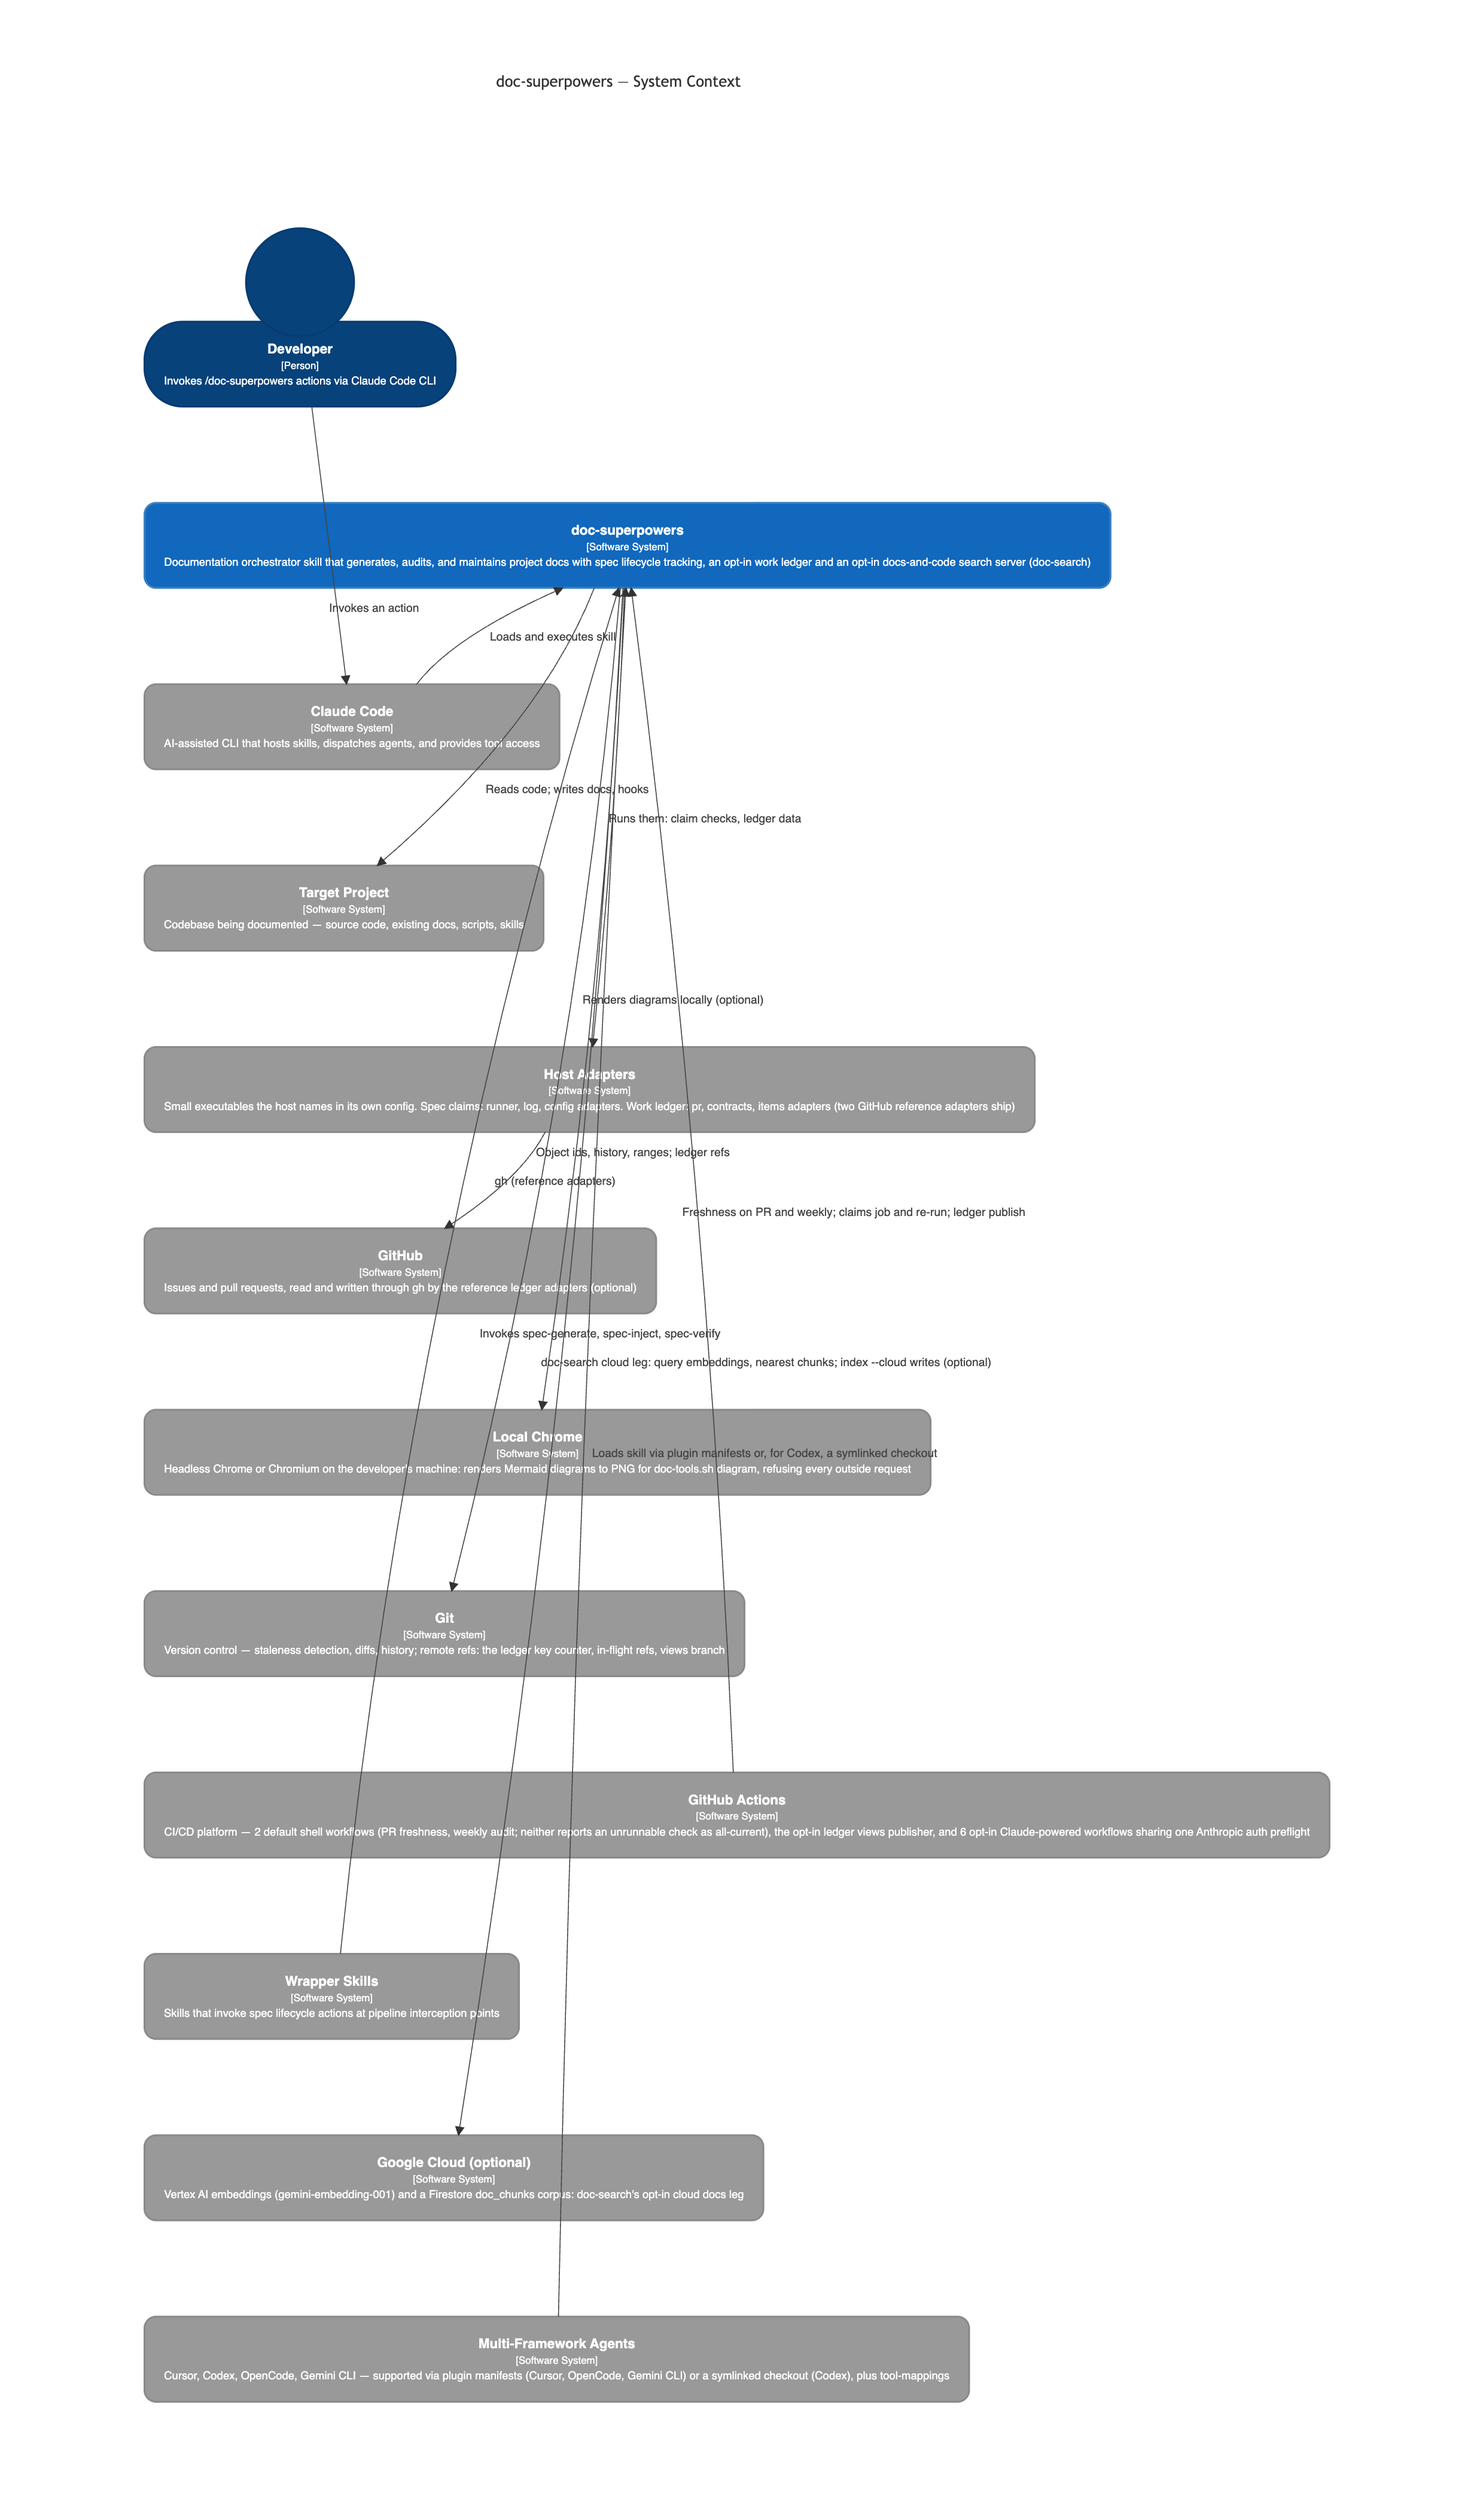
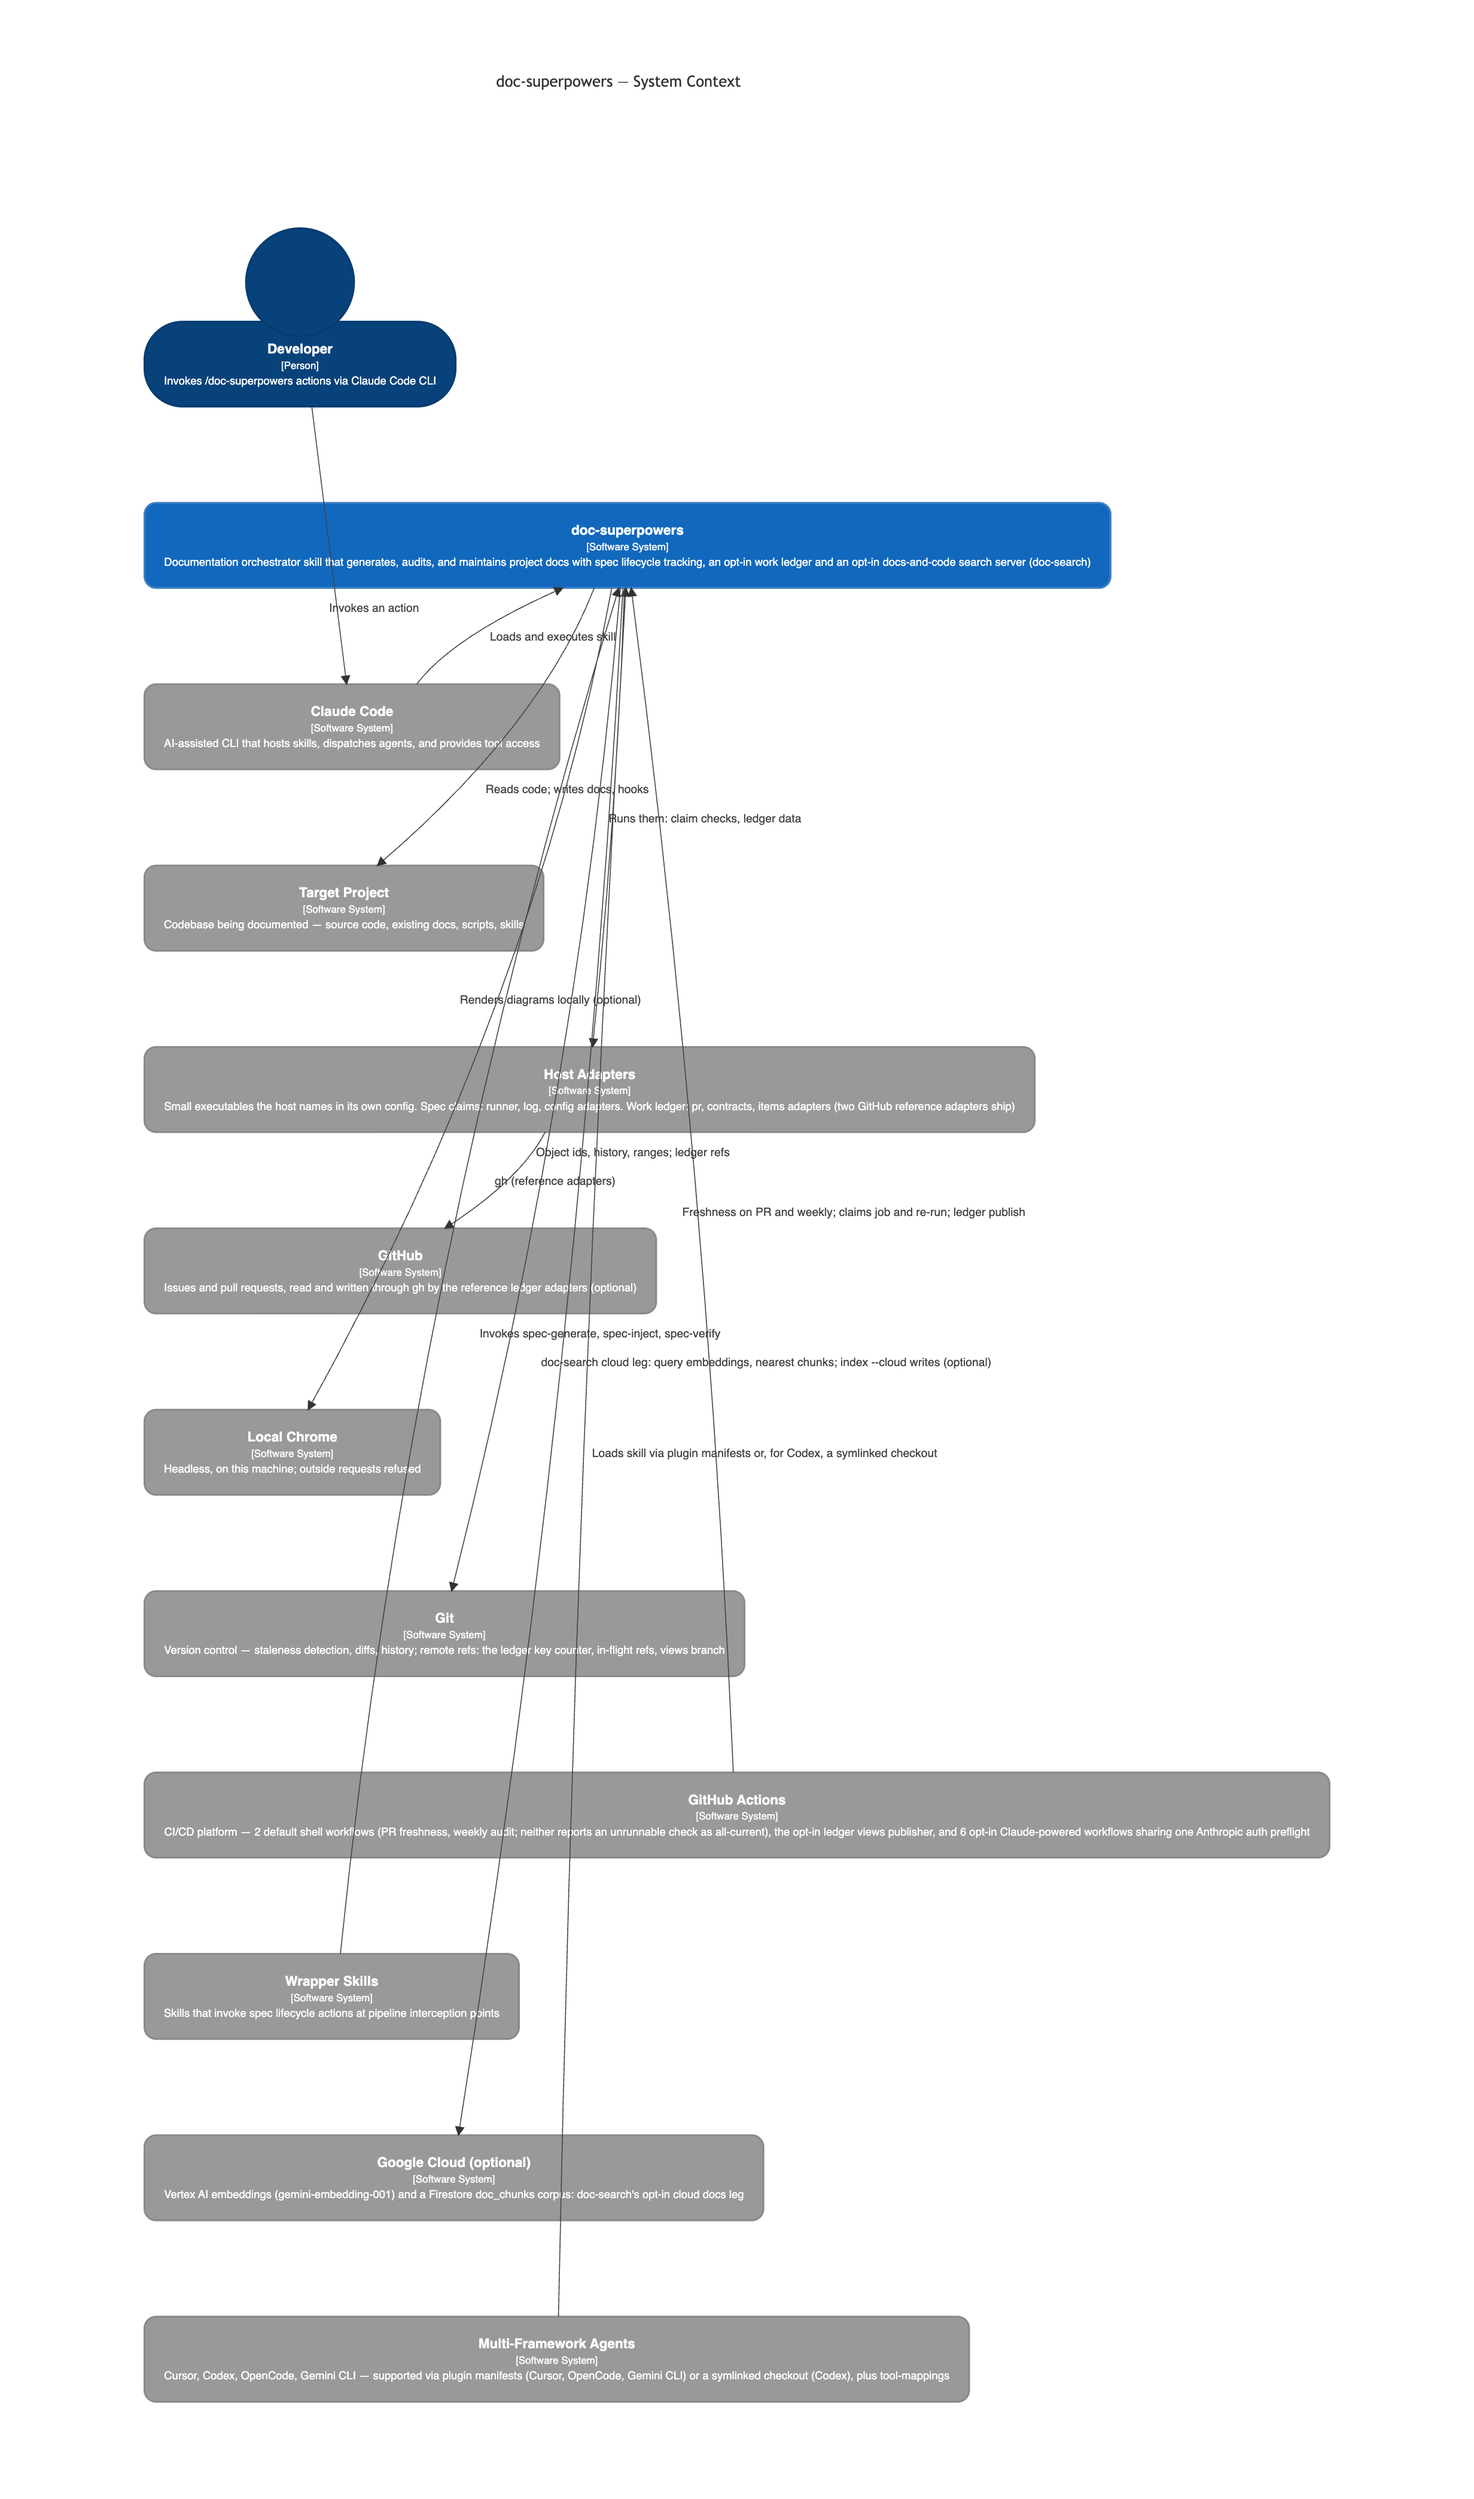
docs: the context diagram's Local Chrome box clears the edge label beside it
The longer description widened the box until the label "Loads skill via
plugin manifests or, for Codex, a symlinked checkout" sat on its title.
A shorter description keeps the box narrow, as the Mermaid MCP box was.

Changed region(s): [[0.2812, 0.5601, 0.6562, 0.6223], [0.1562, 0.5601, 0.2188, 0.5912]]

diff --git a/docs/architecture/system-overview.md b/docs/architecture/system-overview.md
@@ -27,7 +27,7 @@ C4Context
   System_Ext(project, "Target Project", "Codebase being documented — source code, existing docs, scripts, skills")
   System_Ext(adapters, "Host Adapters", "Small executables the host names in its own config. Spec claims: runner, log, config adapters. Work ledger: pr, contracts, items adapters (two GitHub reference adapters ship)")
   System_Ext(github, "GitHub", "Issues and pull requests, read and written through gh by the reference ledger adapters (optional)")
-  System_Ext(chrome, "Local Chrome", "Headless Chrome or Chromium on the developer's machine: renders Mermaid diagrams to PNG for doc-tools.sh diagram, refusing every outside request")
+  System_Ext(chrome, "Local Chrome", "Headless, on this machine; outside requests refused")
   System_Ext(git, "Git", "Version control — staleness detection, diffs, history; remote refs: the ledger key counter, in-flight refs, views branch")
   System_Ext(ci, "GitHub Actions", "CI/CD platform — 2 default shell workflows (PR freshness, weekly audit; neither reports an unrunnable check as all-current), the opt-in ledger views publisher, and 6 opt-in Claude-powered workflows sharing one Anthropic auth preflight")
   System_Ext(wrapper, "Wrapper Skills", "Skills that invoke spec lifecycle actions at pipeline interception points")
